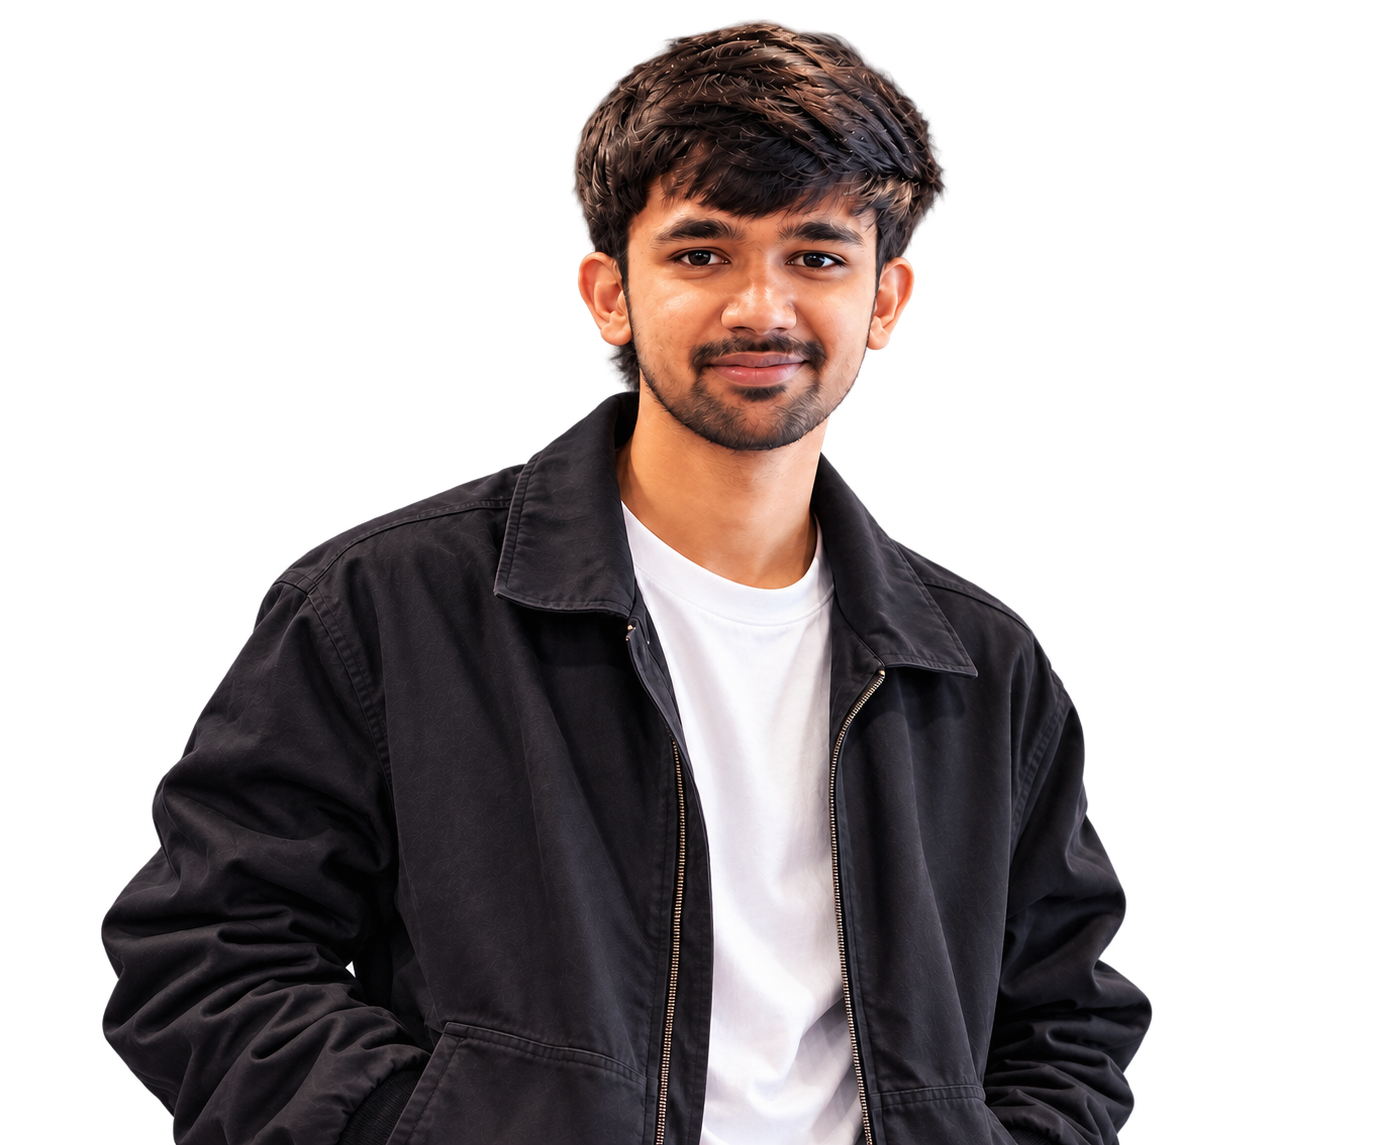
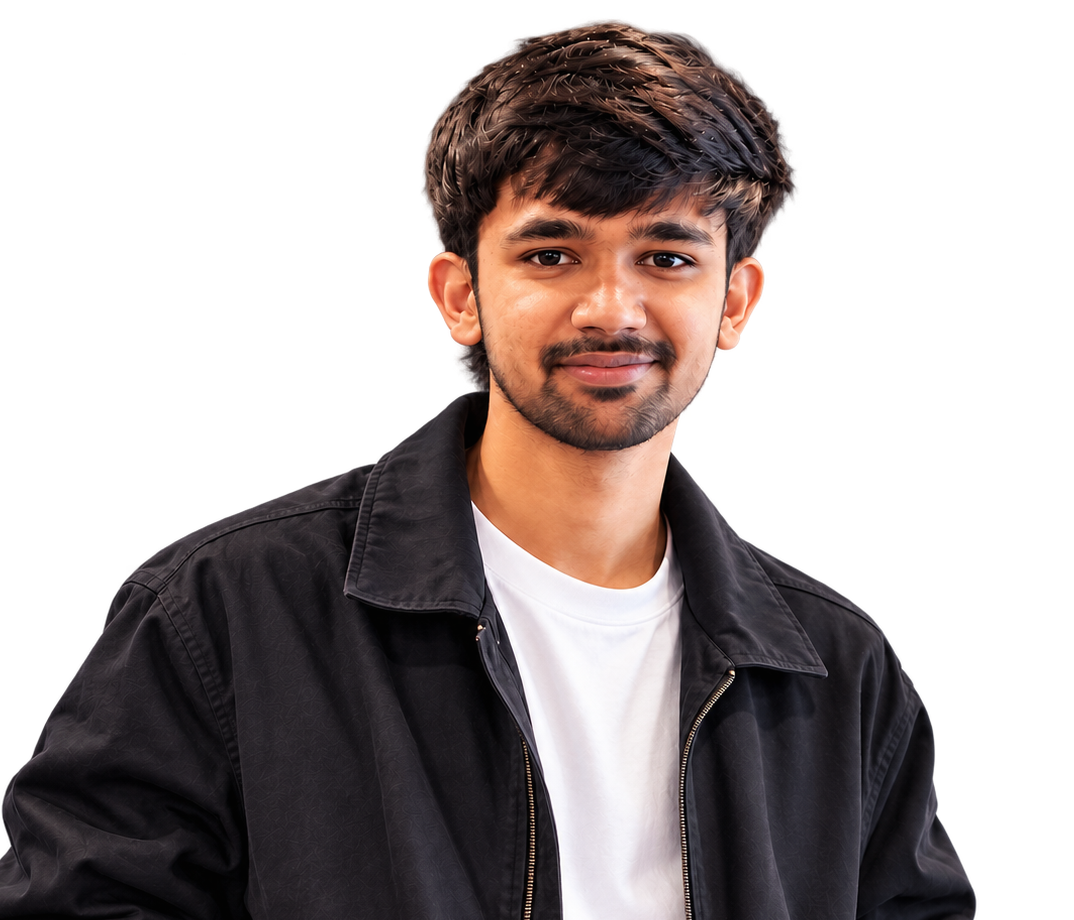
graph image added

diff --git a/lib/seo.ts b/lib/seo.ts
@@ -9,11 +9,11 @@ export const SITE_URL = (
 export const SITE_NAME = "Kshitij Pawar | Full-Stack Developer";
 export const SITE_TITLE_DEFAULT = "Kshitij Pawar | Full-Stack Developer";
 export const SITE_DESCRIPTION_DEFAULT =
-  "Full-Stack Developer in Pune, India building scalable React & Next.js web applications, Node.js & Express APIs, PostgreSQL databases (Drizzle & Prisma), and asynchronous BullMQ + Redis worker systems.";
+  "Full-Stack Developer in Nashik, India building scalable React, Next.js, Node.js, PostgreSQL & BullMQ/Redis systems.";
 export const DEFAULT_OG_IMAGE_PATH = "/og-image.png";
 export const DEFAULT_OG_IMAGE_URL = `${SITE_URL}${DEFAULT_OG_IMAGE_PATH}`;
 export const DEFAULT_OG_IMAGE_ALT =
-  "Kshitij Pawar | Full-Stack Developer — React, Next.js, Node.js, PostgreSQL & BullMQ Portfolio Preview";
+  "Kshitij Pawar — Full-Stack Developer in Nashik, India | React, Next.js, TypeScript, Node.js, PostgreSQL, Redis, BullMQ";
 
 export const VERIFIED_SAME_AS = [
   "https://github.com/Kshitij-Vijay-Pawar",
@@ -24,7 +24,8 @@ export const VERIFIED_SAME_AS = [
 export const CORE_KEYWORDS = [
   "Kshitij Pawar",
   "Full-Stack Developer",
-  "Full-Stack Developer Pune",
+  "Full-Stack Developer Nashik",
+  "Full-Stack Developer India",
   "React Developer India",
   "Next.js Developer",
   "TypeScript Developer",
@@ -153,7 +154,7 @@ export function getPersonJsonLd() {
     image: `${SITE_URL}/images/Hero.png`,
     address: {
       "@type": "PostalAddress",
-      addressLocality: "Pune",
+      addressLocality: "Nashik",
       addressRegion: "Maharashtra",
       addressCountry: "IN",
     },

diff --git a/app/components/HeroSection.tsx b/app/components/HeroSection.tsx
@@ -284,7 +284,7 @@ export default function HeroSection() {
       className="relative w-full h-[100svh] min-h-[660px] max-h-[1200px] flex flex-col justify-between overflow-hidden bg-[#fafaf9] pt-16 sm:pt-20 md:pt-24 pb-0 sm:pb-2 px-3 sm:px-6 md:px-12 lg:px-14 select-none"
     >
       <h1 className="sr-only">
-        Kshitij Pawar — Full-Stack Developer in Pune, India building React, Next.js, Node.js, PostgreSQL, and BullMQ/Redis applications
+        Kshitij Pawar — Full-Stack Developer in Nashik, India building React, Next.js, Node.js, PostgreSQL, and BullMQ/Redis applications
       </h1>
       {/* 1. Background Grid & Dot Matrix Layer with Parallax */}
       <div
@@ -395,11 +395,11 @@ export default function HeroSection() {
           <div className="relative w-full sm:w-[540px] md:w-[700px] lg:w-[820px] xl:w-[940px] h-[62svh] sm:h-[82svh] md:h-[86svh] max-h-[960px] min-h-[400px]">
             <Image
               src={heroImage}
-              alt="Kshitij Pawar — Full-Stack Developer based in Pune, India"
+              alt="Kshitij Pawar — Full-Stack Developer based in Nashik, India"
               priority
               fill
               sizes="(max-width: 640px) 100vw, (max-width: 768px) 80vw, (max-width: 1200px) 820px, 940px"
-              className="object-contain object-bottom drop-shadow-[0_24px_50px_rgba(0,0,0,0.22)] filter contrast-[1.03]"
+              className="object-contain object-[center_top] sm:object-bottom drop-shadow-[0_24px_50px_rgba(0,0,0,0.22)] filter contrast-[1.03]"
             />
           </div>
         </div>

diff --git a/app/(main)/contact/layout.tsx b/app/(main)/contact/layout.tsx
@@ -3,13 +3,13 @@ import JsonLd from "@/app/components/JsonLd";
 import { constructMetadata, getBreadcrumbJsonLd } from "@/lib/seo";
 
 export const metadata: Metadata = constructMetadata({
-  title: "Contact Kshitij Pawar | Hire Full-Stack Developer in Pune, India",
+  title: "Contact Kshitij Pawar | Full-Stack Developer",
   description:
-    "Get in touch with Kshitij Pawar for full-stack software engineering roles, React/Next.js web applications, Node.js/PostgreSQL backend work, or freelance collaborations.",
+    "Contact Kshitij Pawar in Nashik, India for full-stack engineering roles, React/Next.js apps, and Node.js backend work.",
   path: "/contact",
   keywords: [
     "Contact Kshitij Pawar",
-    "Hire Full-Stack Developer Pune",
+    "Hire Full-Stack Developer Nashik",
     "Hire Next.js Developer India",
   ],
 });

diff --git a/app/(main)/about/layout.tsx b/app/(main)/about/layout.tsx
@@ -7,9 +7,9 @@ import {
 } from "@/lib/seo";
 
 export const metadata: Metadata = constructMetadata({
-  title: "About & Engineering Journey | Kshitij Pawar — Full-Stack Developer",
+  title: "About & Engineering Journey | Kshitij Pawar",
   description:
-    "Learn about Kshitij Pawar, a Full-Stack Developer in Pune, India (B.E. in AI & Data Science, 7.88 CGPA) with professional experience at McFlyworld, Tvara, and NerdTech.",
+    "Full-Stack Developer in Nashik, India with experience at McFlyworld, Tvara, and NerdTech building web & AI systems.",
   path: "/about",
   type: "profile",
   keywords: [

diff --git a/app/(main)/page.tsx b/app/(main)/page.tsx
@@ -12,7 +12,7 @@ import { constructMetadata, getProfilePageJsonLd } from "@/lib/seo";
 export const metadata: Metadata = constructMetadata({
   title: "Kshitij Pawar | Full-Stack Developer",
   description:
-    "Full-Stack Developer in Pune, India building scalable React & Next.js web applications, Node.js & Express APIs, PostgreSQL databases (Drizzle & Prisma), and asynchronous BullMQ + Redis worker systems.",
+    "Full-Stack Developer in Nashik, India building scalable React, Next.js, Node.js, PostgreSQL & BullMQ/Redis systems.",
   path: "/",
   type: "website",
 });

diff --git a/app/layout.tsx b/app/layout.tsx
@@ -36,7 +36,7 @@ export const metadata: Metadata = {
   ...constructMetadata({
     title: "Kshitij Pawar | Full-Stack Developer",
     description:
-      "Full-Stack Developer in Pune, India building scalable React & Next.js web applications, Node.js & Express APIs, PostgreSQL databases (Drizzle & Prisma), and asynchronous BullMQ + Redis worker systems.",
+      "Full-Stack Developer in Nashik, India building scalable React, Next.js, Node.js, PostgreSQL & BullMQ/Redis systems.",
     path: "/",
     type: "website",
   }),

diff --git a/app/(main)/about/page.tsx b/app/(main)/about/page.tsx
@@ -308,7 +308,7 @@ export default function AboutPage() {
                     fill
                     priority
                     sizes="(max-width: 768px) 100vw, 420px"
-                    className="object-cover object-center group-hover:scale-105 transition-transform duration-700 ease-out"
+                    className="object-cover object-[center_top] group-hover:scale-105 transition-transform duration-700 ease-out"
                   />
 
                   {/* Gradient Overlay for Text Readability */}
